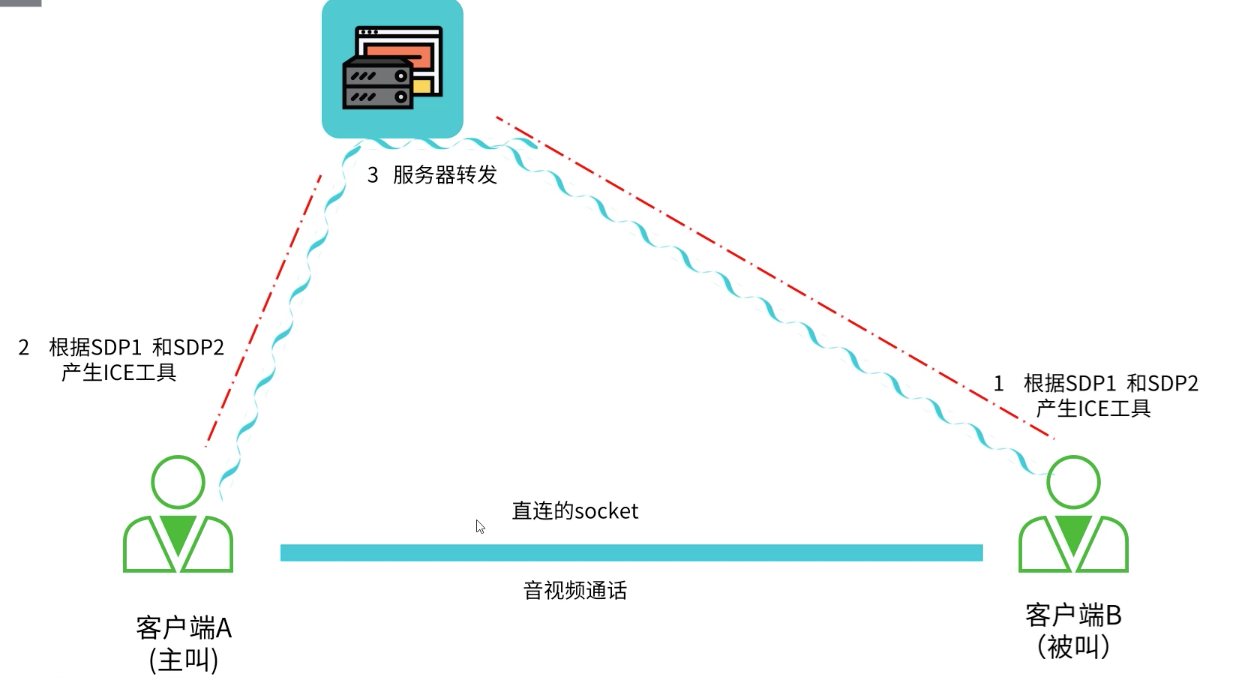
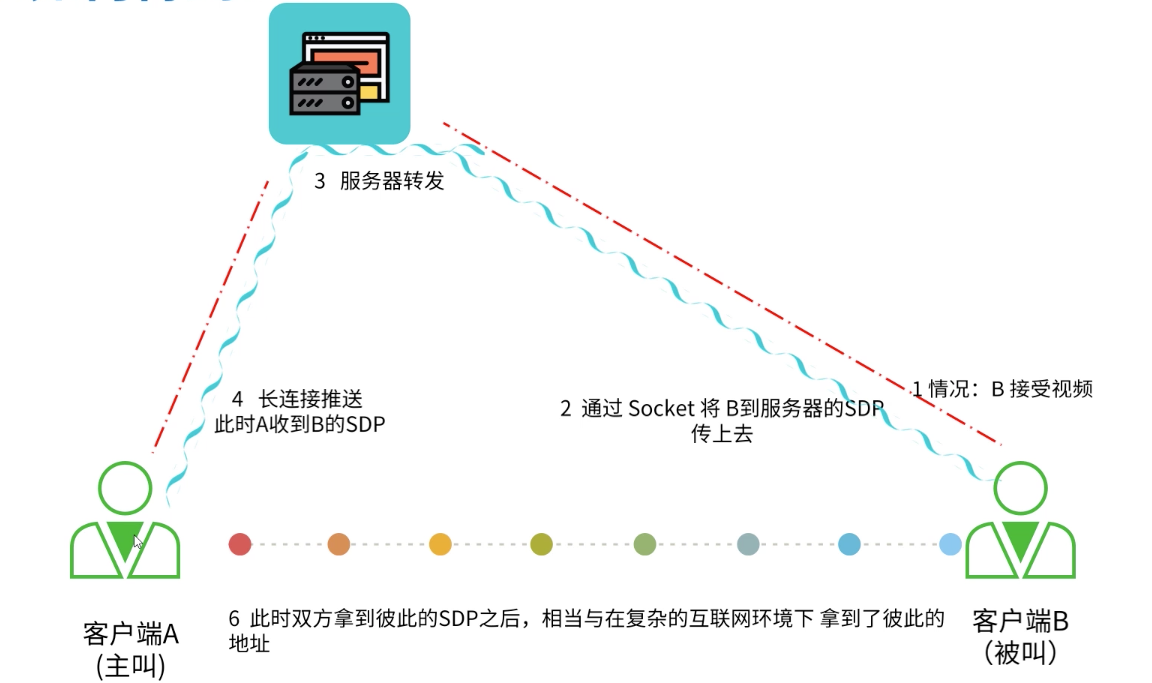
modified readme

diff --git a/README.md b/README.md
@@ -56,3 +56,9 @@
 
 ![image](https://github.com/tianyalu/NeWebRTCP2PCommunication/raw/master/show/a_get_sdp.png)  
 
+
+#### 1.5.4 A与B建立双向连接：  
+
+![image](https://github.com/tianyalu/NeWebRTCP2PCommunication/raw/master/show/a_b_connect.png)  
+
+
